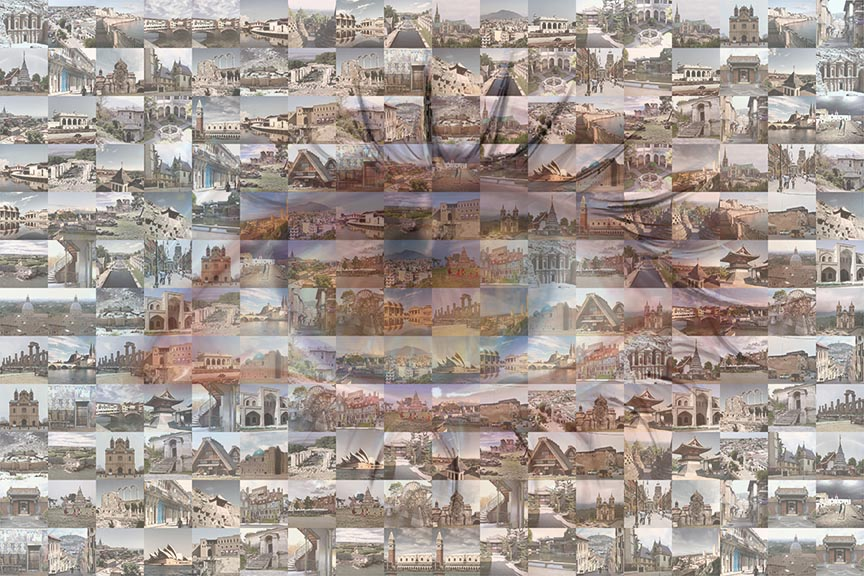
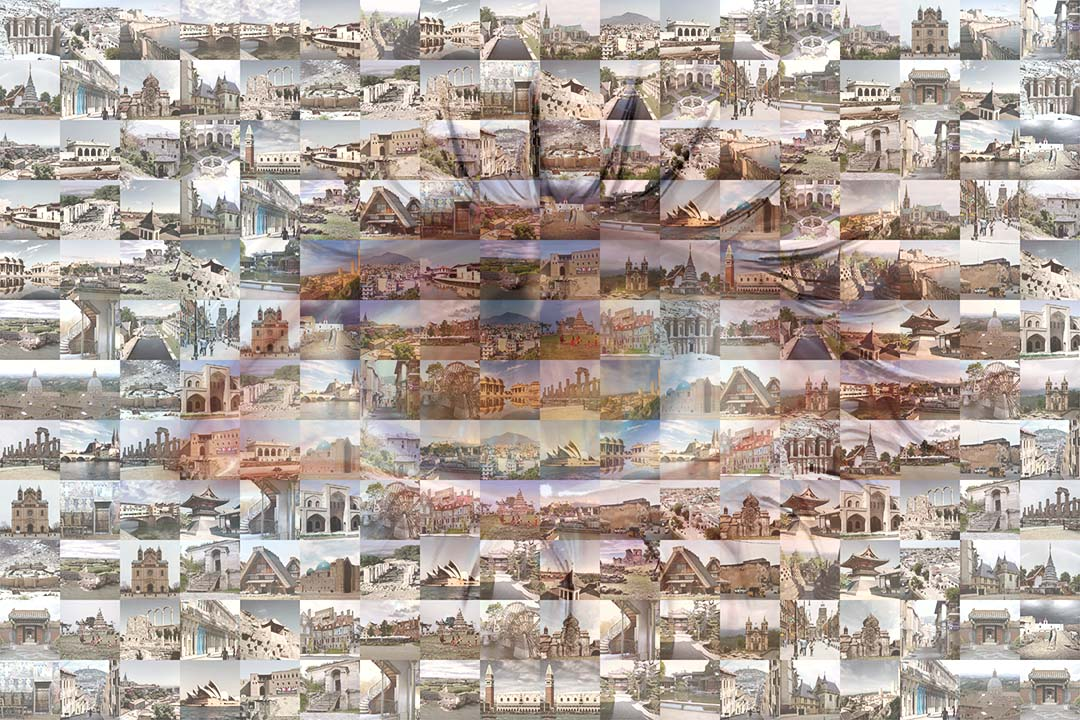
fix: tweak background img
background img with higher resolution

diff --git a/world-heritage-city/index.md b/world-heritage-city/index.md
@@ -26,7 +26,7 @@ Data-driven methods offer a bridge between these two imperatives: they are well-
 <br>
 
 <center>
-<img src="{{ 'world-heritage-city/images/background_compress.jpg' | relative_url }}" alt="Work package structure" width="80%">
+<img src="{{ 'world-heritage-city/images/background.jpg' | relative_url }}" alt="Work package structure" width="80%">
 </center>
 
 <br>